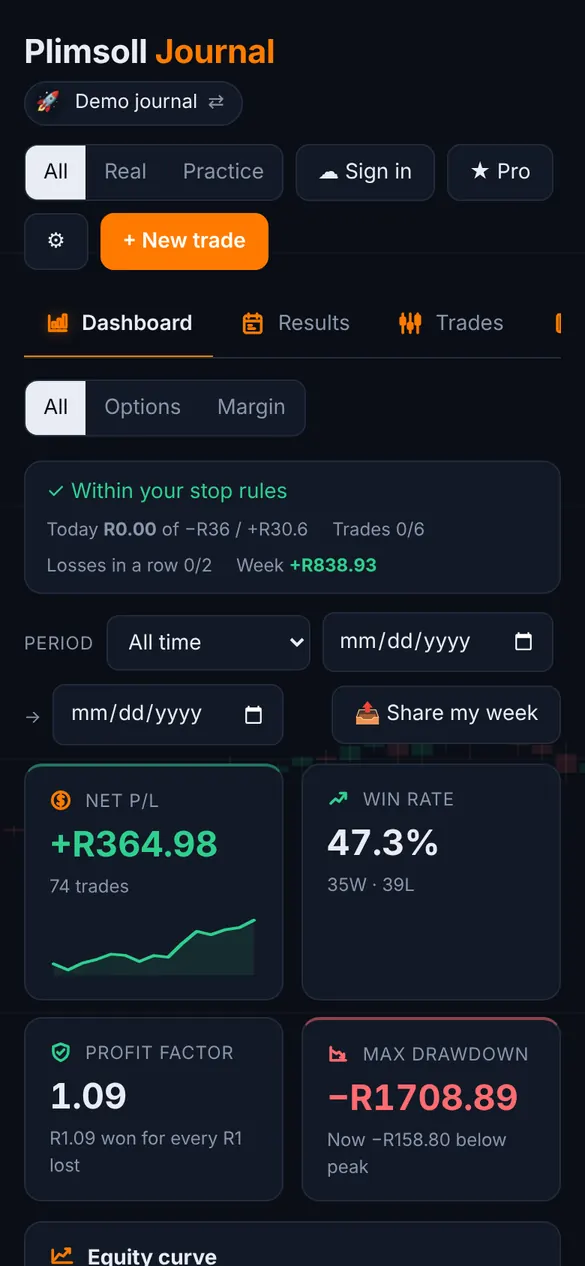
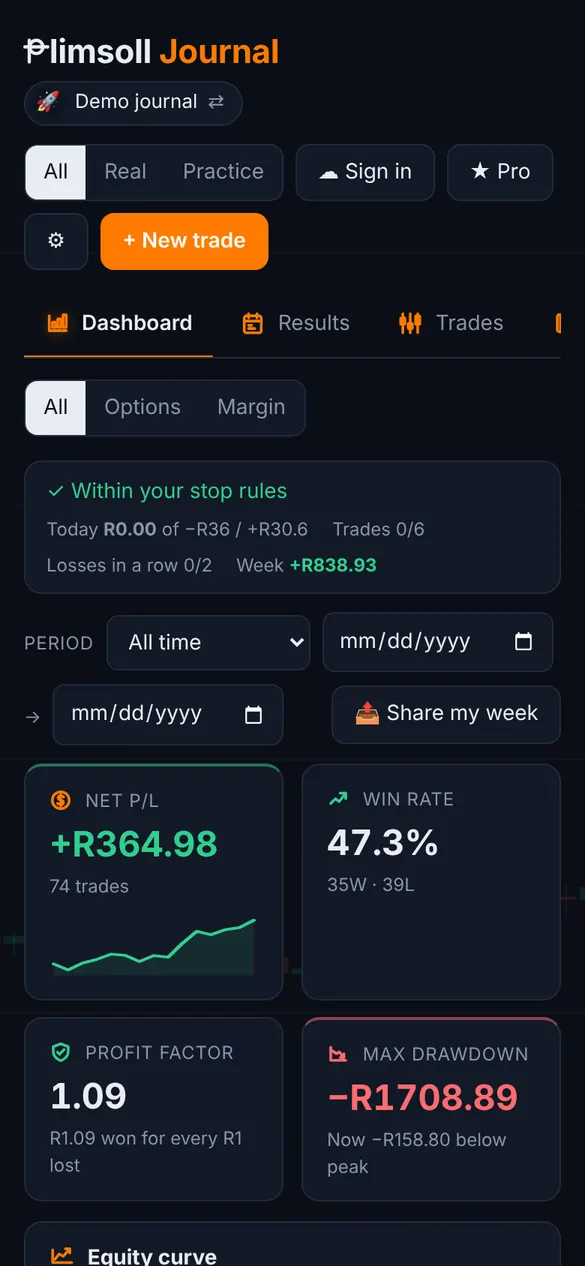
Plimsoll Journal: new monogram P and fresh screenshot
The P in the Plimsoll Journal heading is now the Plimsoll mark, matching
the app's build 46 wordmark, and the dashboard screenshot is retaken.

Claude-Session: https://claude.ai/code/session_018NyzGrH9vqSqYTVcXqSyZ8

Changed region(s): [[0.0308, 0.0308, 0.4923, 0.0616], [0.9538, 0.5853, 0.9846, 0.6161]]

diff --git a/public/styles.css b/public/styles.css
@@ -58,6 +58,9 @@ h1 { font-size: clamp(36px, 6vw, 56px); line-height: 1.1; letter-spacing: -1px; 
 .app.flip { grid-template-columns: 340px 1fr; }
 .app.flip .app-text { order: 2; }
 .app h2 { font-size: 34px; margin: 0 0 6px; }
+/* Plimsoll Journal's P is the Plimsoll mark (ring with a bar through it), drawn to match the app's wordmark */
+.pj { display: inline-block; height: .72em; width: auto; vertical-align: baseline; overflow: visible; margin-right: .02em; }
+.pj * { fill: none; stroke: currentColor; stroke-width: 8; stroke-linecap: round; }
 .app .what { font-size: 21px; color: var(--milk); margin: 0 0 18px; }
 .app ul { margin: 0 0 22px; padding-left: 20px; color: #cfc6b8; }
 .app li { margin-bottom: 6px; }

diff --git a/public/index.html b/public/index.html
@@ -54,7 +54,7 @@
 
       <section class="app flip">
         <div class="app-text">
-          <h2>Plimsoll Journal</h2>
+          <h2 aria-label="Plimsoll Journal"><svg class="pj" viewBox="5 6 56 54" aria-hidden="true"><path d="M17 9V58M7 24H59"/><circle cx="33" cy="24" r="15"/></svg>limsoll Journal</h2>
           <p class="what">The full trading journal: every trade, your notes, and what is actually working.</p>
           <ul>
             <li>Win rate, profit factor and drawdown, worked out from your own trades.</li>
